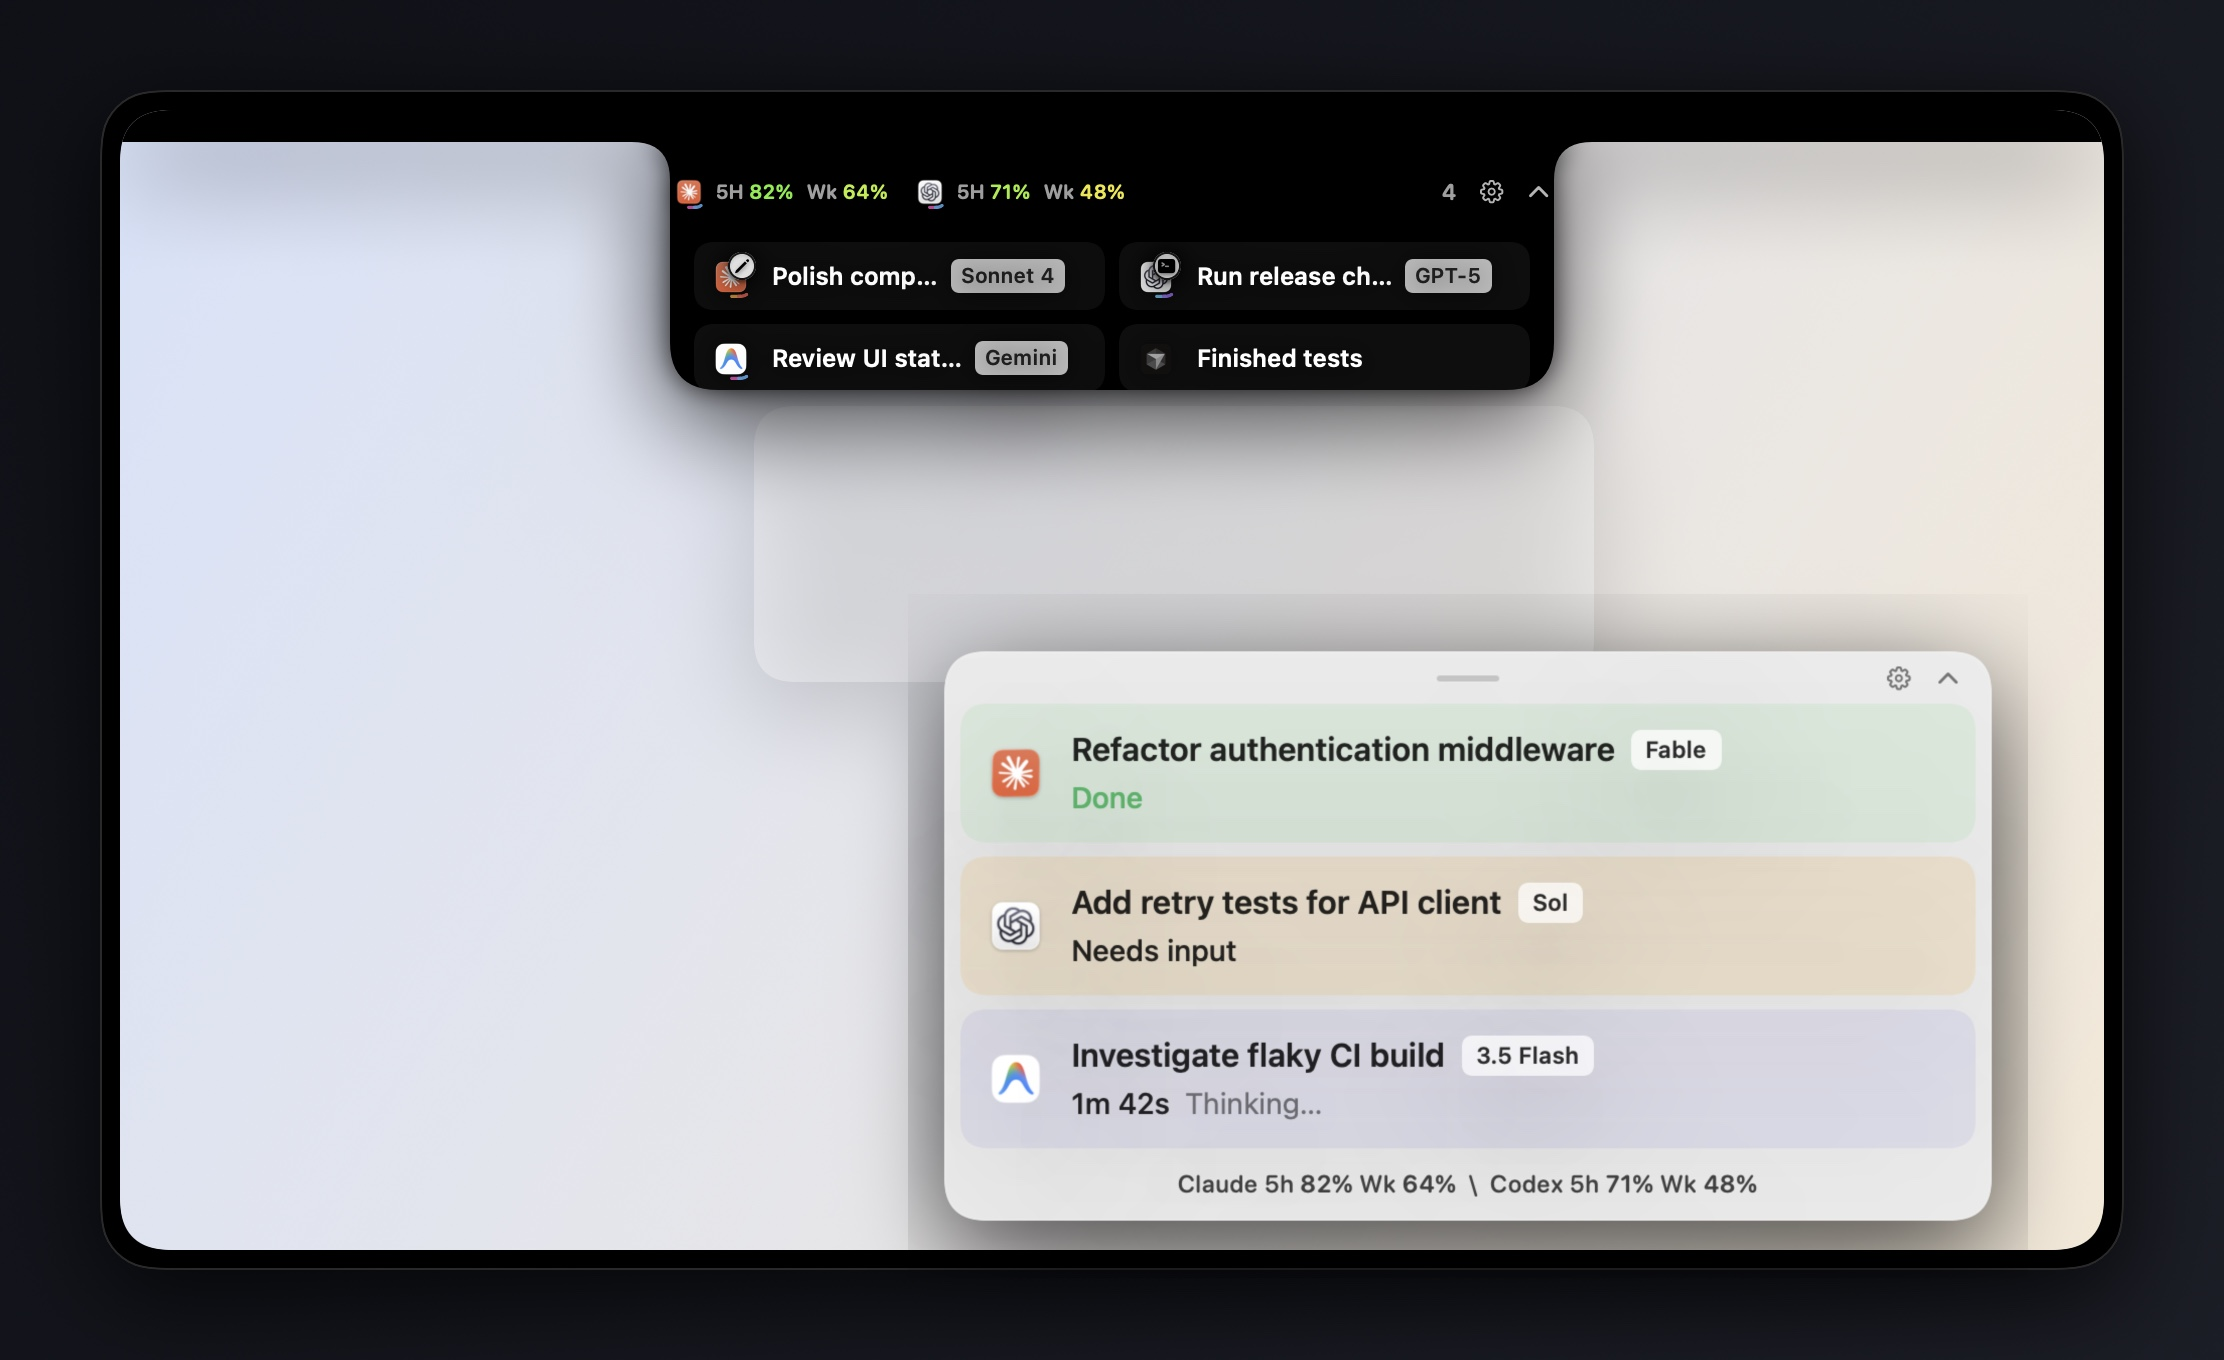
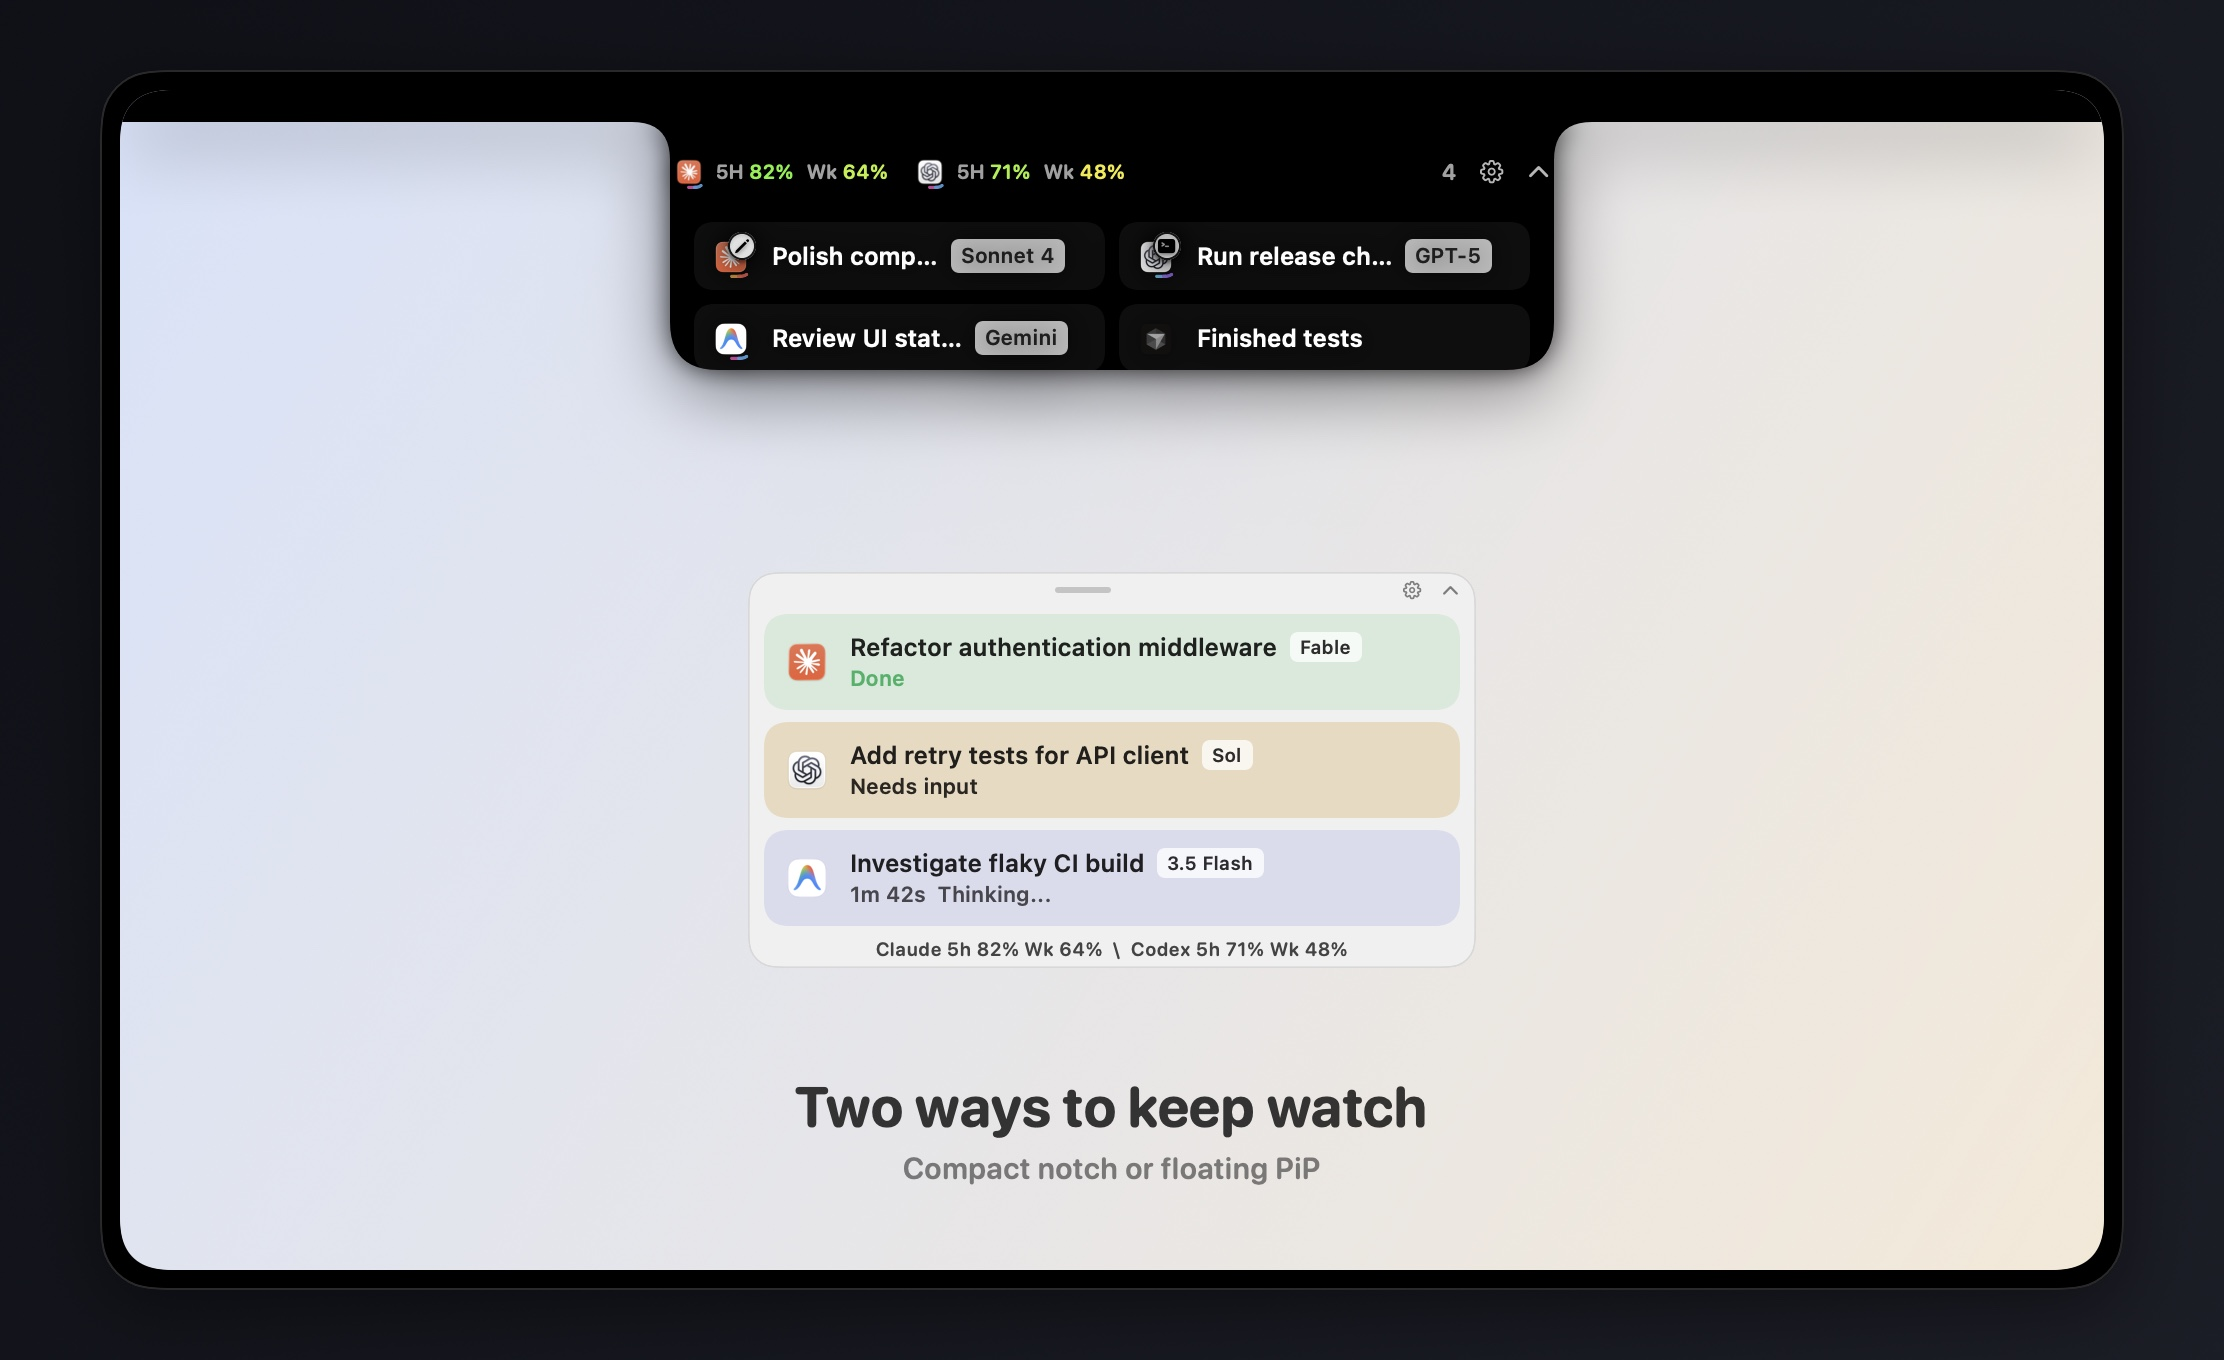
Refine README overview mockup

Changed region(s): [[0.031, 0.4015, 0.9618, 0.9574], [0.031, 0.0309, 0.9618, 0.3706]]

diff --git a/scripts/render-readme-mockups.swift b/scripts/render-readme-mockups.swift
@@ -349,8 +349,109 @@ private struct ExpandedCompactNotch: View {
     }
 }
 
+private struct MockPiPRow: View {
+    let provider: MockProvider
+    let title: String
+    let model: String?
+    let status: String
+    let statusColor: Color
+    let tint: Color
+
+    var body: some View {
+        HStack(spacing: 10) {
+            Image(nsImage: MockIconStore.shared.image(for: provider))
+                .resizable()
+                .scaledToFit()
+                .frame(width: 23, height: 23)
+                .clipShape(RoundedRectangle(cornerRadius: 5.5, style: .continuous))
+
+            VStack(alignment: .leading, spacing: 2) {
+                HStack(spacing: 6) {
+                    Text(title)
+                        .font(.system(size: 12.2, weight: .semibold))
+                        .foregroundStyle(Color.black.opacity(0.86))
+                        .lineLimit(1)
+                    if let model {
+                        Text(model)
+                            .font(.system(size: 9.4, weight: .semibold))
+                            .foregroundStyle(Color.black.opacity(0.82))
+                            .padding(.horizontal, 5)
+                            .padding(.vertical, 2)
+                            .background(Color.white.opacity(0.76), in: RoundedRectangle(cornerRadius: 4))
+                    }
+                    Spacer(minLength: 2)
+                }
+                Text(status)
+                    .font(.system(size: 10.7, weight: .semibold))
+                    .foregroundStyle(statusColor)
+            }
+        }
+        .padding(.horizontal, 10)
+        .frame(maxWidth: .infinity, minHeight: 48)
+        .background(tint, in: RoundedRectangle(cornerRadius: 11, style: .continuous))
+    }
+}
+
+private struct MockPiPPanel: View {
+    var body: some View {
+        VStack(spacing: 6) {
+            HStack {
+                Spacer()
+                Capsule()
+                    .fill(Color.black.opacity(0.18))
+                    .frame(width: 28, height: 3)
+                Spacer()
+                HStack(spacing: 9) {
+                    Image(systemName: "gearshape")
+                    Image(systemName: "chevron.up")
+                }
+                .font(.system(size: 8.5, weight: .semibold))
+                .foregroundStyle(Color.black.opacity(0.48))
+            }
+            .frame(height: 12)
+
+            MockPiPRow(
+                provider: .claude,
+                title: "Refactor authentication middleware",
+                model: "Fable",
+                status: "Done",
+                statusColor: Color(red: 0.18, green: 0.70, blue: 0.39),
+                tint: Color(red: 0.82, green: 0.91, blue: 0.84).opacity(0.78)
+            )
+            MockPiPRow(
+                provider: .codex,
+                title: "Add retry tests for API client",
+                model: "Sol",
+                status: "Needs input",
+                statusColor: Color.black.opacity(0.82),
+                tint: Color(red: 0.91, green: 0.83, blue: 0.70).opacity(0.78)
+            )
+            MockPiPRow(
+                provider: .antigravity,
+                title: "Investigate flaky CI build",
+                model: "3.5 Flash",
+                status: "1m 42s  Thinking...",
+                statusColor: Color.black.opacity(0.68),
+                tint: Color(red: 0.83, green: 0.84, blue: 0.93).opacity(0.78)
+            )
+
+            Text("Claude 5h 82% Wk 64%  \\  Codex 5h 71% Wk 48%")
+                .font(.system(size: 9.5, weight: .semibold, design: .rounded))
+                .foregroundStyle(Color.black.opacity(0.72))
+                .lineLimit(1)
+        }
+        .padding(8)
+        .frame(width: 364, height: 198)
+        .background(Color(white: 0.94))
+        .clipShape(RoundedRectangle(cornerRadius: 14, style: .continuous))
+        .overlay(
+            RoundedRectangle(cornerRadius: 14, style: .continuous)
+                .strokeBorder(Color.black.opacity(0.10), lineWidth: 0.8)
+        )
+    }
+}
+
 private struct OverviewMockup: View {
-    let pipImage: NSImage
 
     var body: some View {
         ZStack {
@@ -364,16 +465,21 @@ private struct OverviewMockup: View {
             )
 
             display
-                .frame(width: 1012, height: 590)
-                .shadow(color: .black.opacity(0.48), radius: 24, y: 14)
+                .frame(width: 1012, height: 610)
+                .shadow(color: .black.opacity(0.28), radius: 18, y: 10)
 
-            Image(nsImage: pipImage)
-                .resizable()
-                .scaledToFit()
-                .frame(width: 560)
-                .shadow(color: .black.opacity(0.40), radius: 22, y: 14)
-                .offset(x: 178, y: 128)
+            MockPiPPanel()
+                .offset(y: 45)
 
+            VStack(spacing: 5) {
+                Text("Two ways to keep watch")
+                    .font(.system(size: 28, weight: .bold, design: .rounded))
+                    .foregroundStyle(Color.black.opacity(0.78))
+                Text("Compact notch or floating PiP")
+                    .font(.system(size: 15, weight: .semibold, design: .rounded))
+                    .foregroundStyle(Color.black.opacity(0.48))
+            }
+            .offset(y: 225)
         }
         .frame(width: 1112, height: 680)
     }
@@ -392,26 +498,6 @@ private struct OverviewMockup: View {
                     startPoint: .topLeading,
                     endPoint: .bottomTrailing
                 )
-
-                VStack(alignment: .leading, spacing: 14) {
-                    HStack(spacing: 8) {
-                        Circle().fill(Color.red.opacity(0.74)).frame(width: 9, height: 9)
-                        Circle().fill(Color.orange.opacity(0.76)).frame(width: 9, height: 9)
-                        Circle().fill(Color.green.opacity(0.72)).frame(width: 9, height: 9)
-                    }
-                    .padding(.top, 66)
-
-                    RoundedRectangle(cornerRadius: 8, style: .continuous)
-                        .fill(Color.white.opacity(0.44))
-                        .frame(width: 360, height: 18)
-                    RoundedRectangle(cornerRadius: 8, style: .continuous)
-                        .fill(Color.white.opacity(0.30))
-                        .frame(width: 270, height: 13)
-                    RoundedRectangle(cornerRadius: 18, style: .continuous)
-                        .fill(Color.white.opacity(0.32))
-                        .frame(width: 420, height: 138)
-                }
-                .padding(.leading, 62)
 
                 Rectangle()
                     .fill(Color.black)
@@ -465,11 +551,8 @@ private func renderReadmeMockups() throws {
         to: assets.appendingPathComponent("agentpip-compact-expanded.jpg")
     )
 
-    guard let pipImage = NSImage(contentsOf: assets.appendingPathComponent("agentpip-screenshot.png")) else {
-        throw NSError(domain: "AgentPiPMockupRenderer", code: 2, userInfo: [NSLocalizedDescriptionKey: "Could not load the PiP mockup source"])
-    }
     try render(
-        OverviewMockup(pipImage: pipImage),
+        OverviewMockup(),
         size: CGSize(width: 1112, height: 680),
         to: assets.appendingPathComponent("agentpip-overview.jpg")
     )